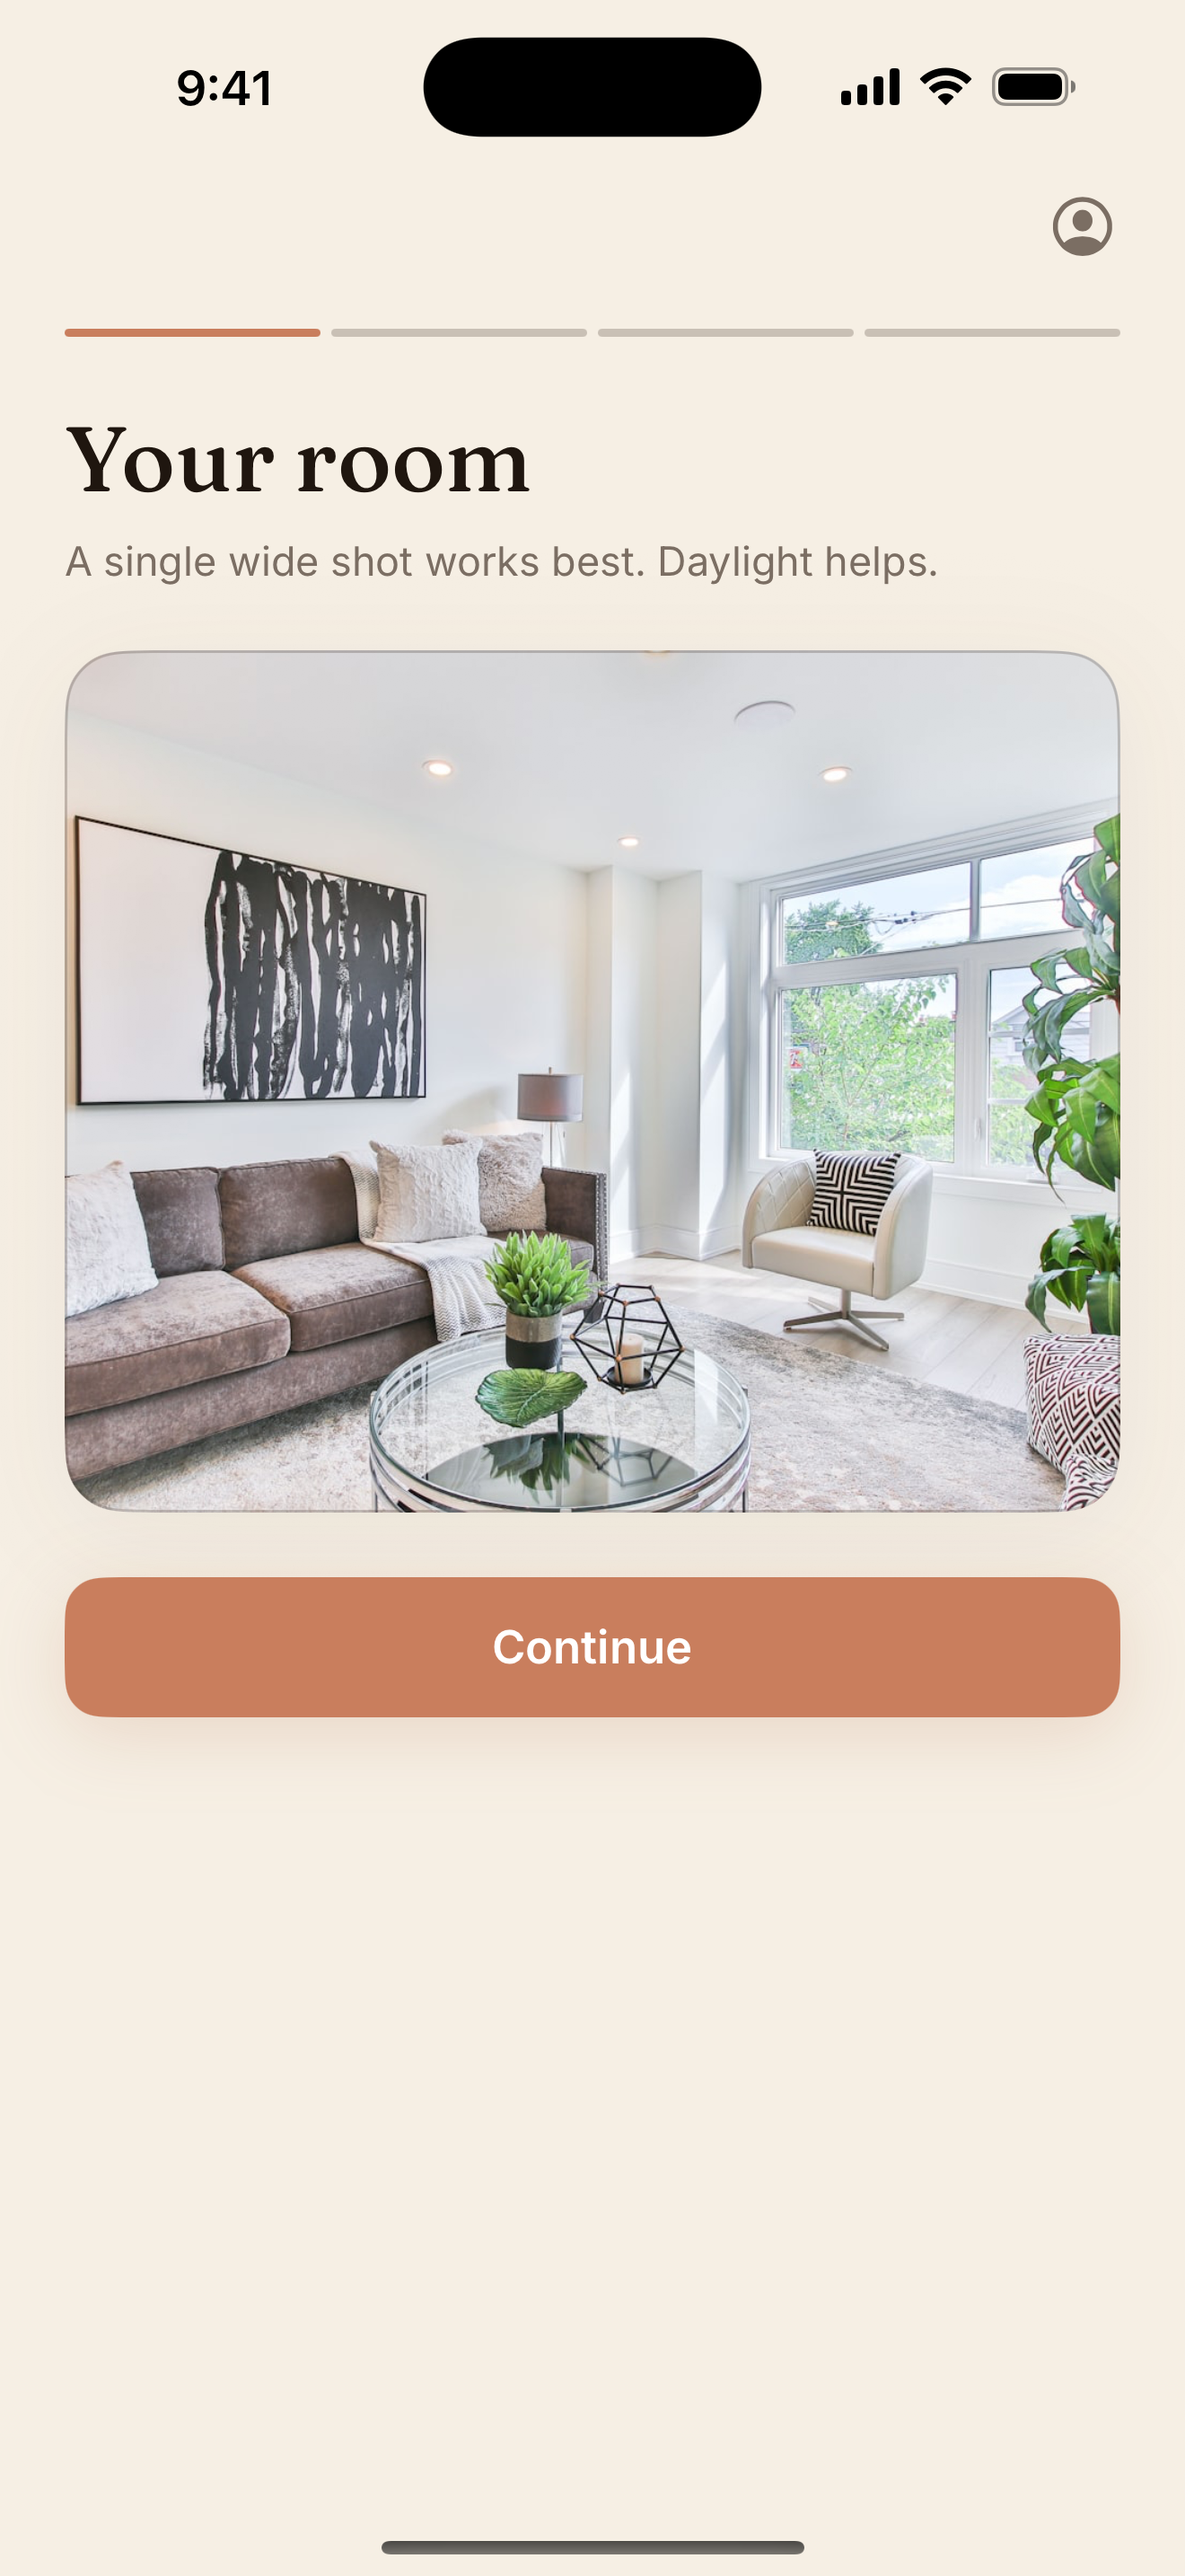
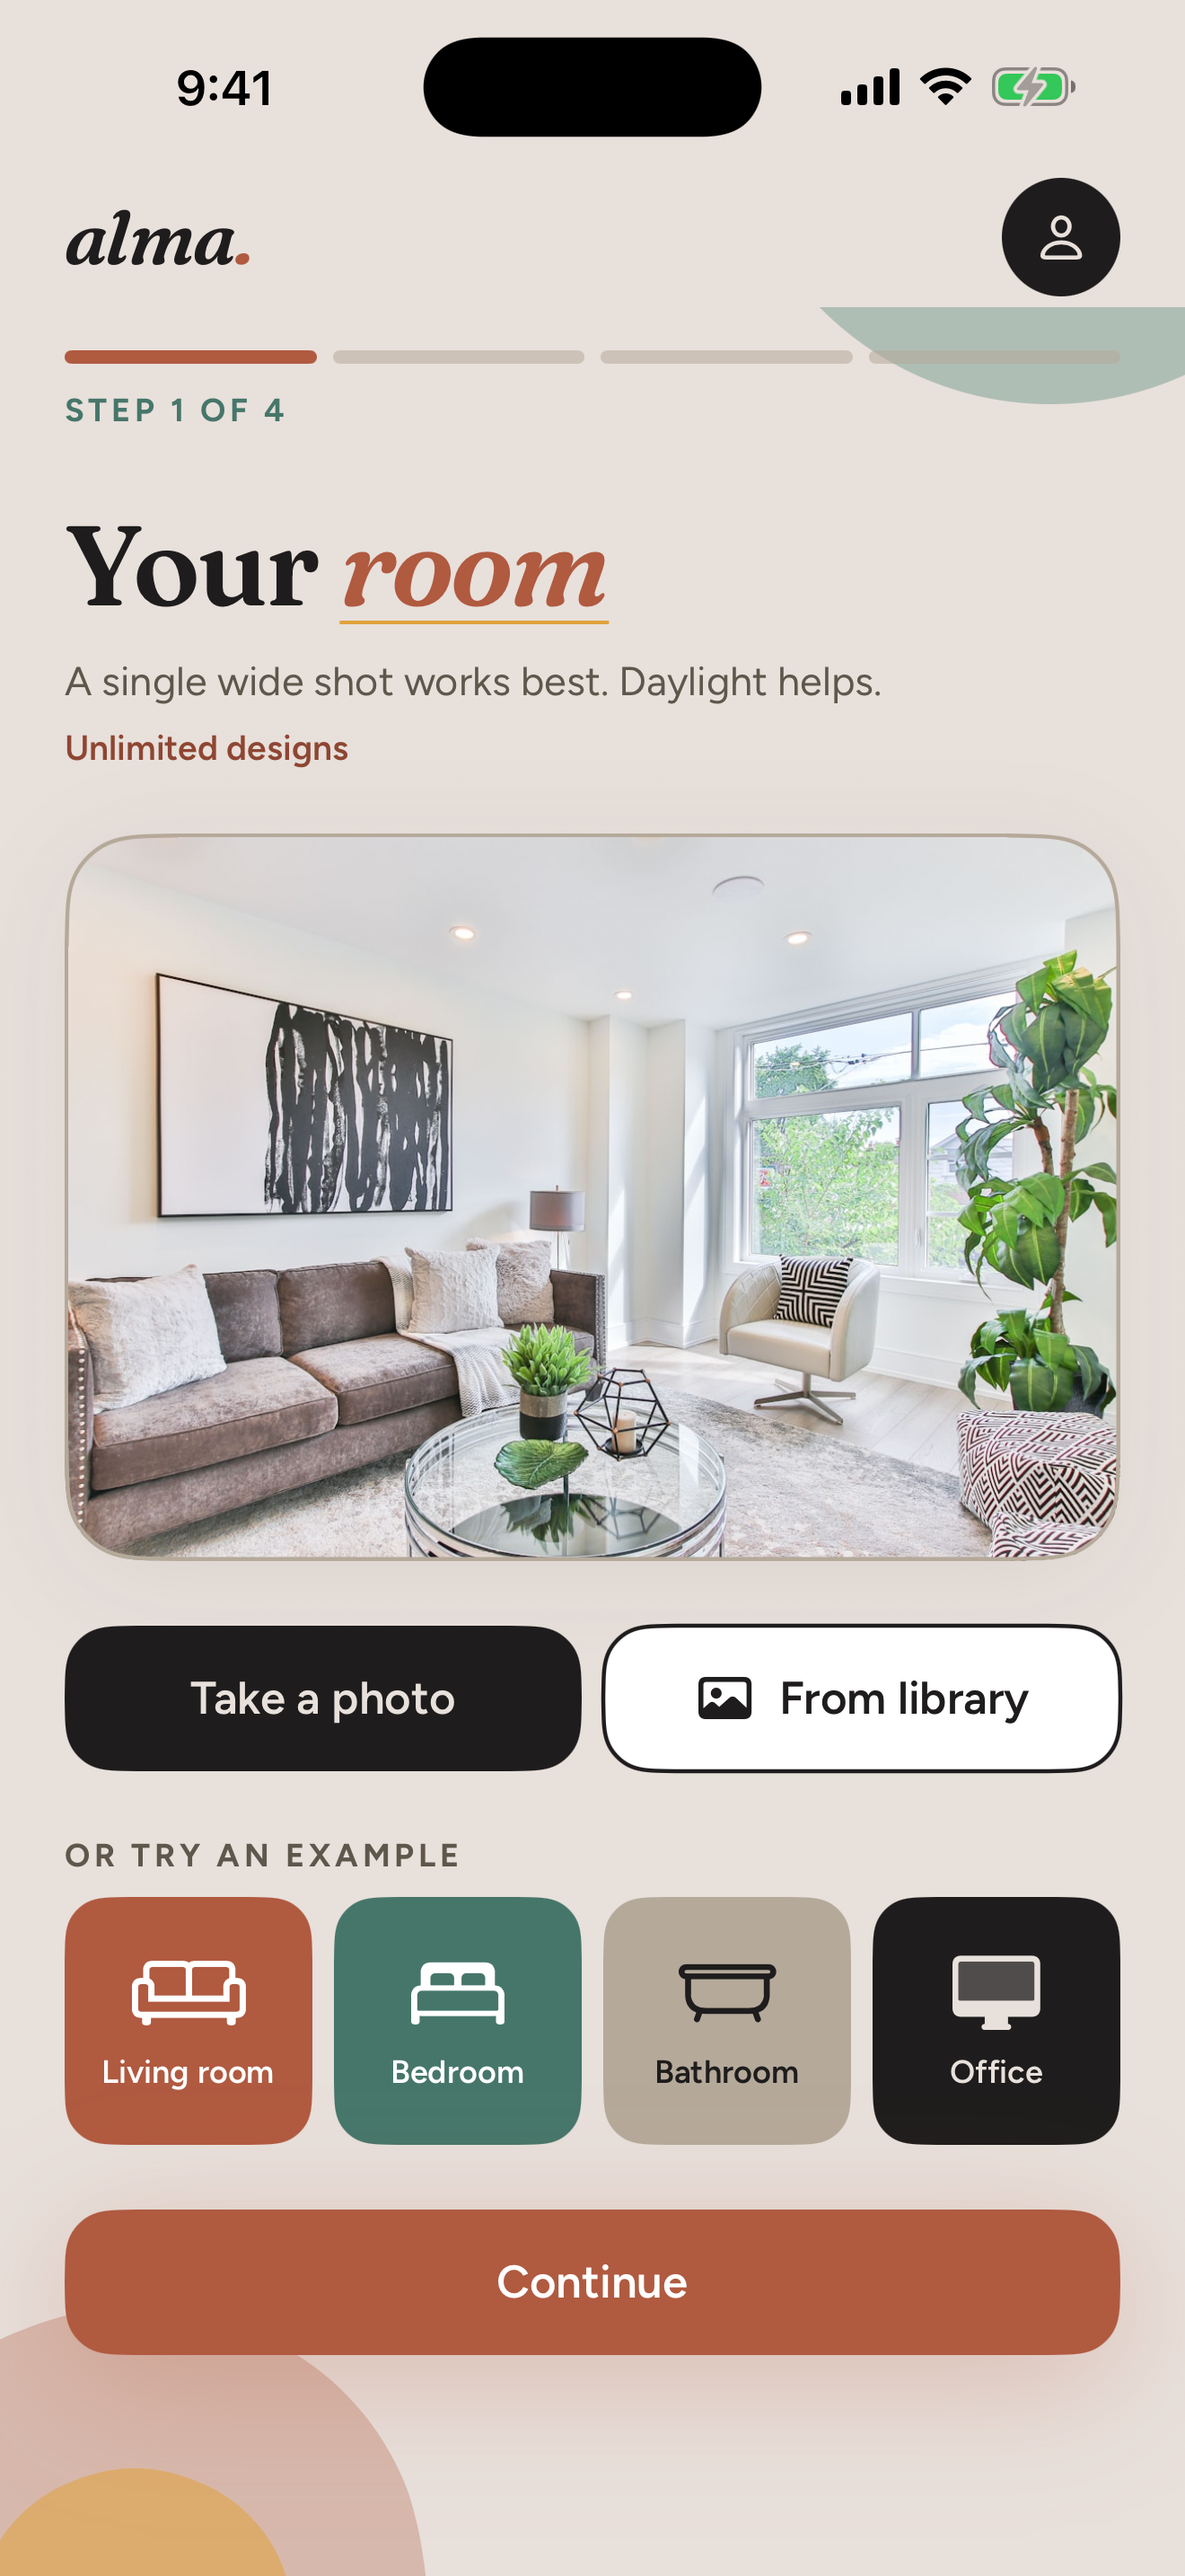
Screenshots of the new design in the README and store/ (en + he)
Six screens per language, taken 27.10.2026 from the simulator with the debug
ScreenshotDriver; the result screen is real backend output. The README now opens
with a gallery, and the how-to section matches the current driver arguments.

diff --git a/README.md b/README.md
@@ -8,6 +8,16 @@ stores. This repository is the native iOS app (SwiftUI, no third-party dependenc
 The app talks to the Alma backend (FastAPI) over HTTPS; the backend and the website live in a
 separate repository.
 
+## Screenshots
+
+| Sign in | Your room | Which room? | Mark & tell | Colours | Result |
+|---|---|---|---|---|---|
+| <img src="docs/media/en-01-sign-in.jpg" width="140"> | <img src="docs/media/en-02-your-room.jpg" width="140"> | <img src="docs/media/en-03-which-room.jpg" width="140"> | <img src="docs/media/en-04-mark-and-tell.jpg" width="140"> | <img src="docs/media/en-05-colours.jpg" width="140"> | <img src="docs/media/en-06-result.jpg" width="140"> |
+| <img src="docs/media/he-01-sign-in.jpg" width="140"> | <img src="docs/media/he-02-your-room.jpg" width="140"> | <img src="docs/media/he-03-which-room.jpg" width="140"> | <img src="docs/media/he-04-mark-and-tell.jpg" width="140"> | <img src="docs/media/he-05-colours.jpg" width="140"> | <img src="docs/media/he-06-result.jpg" width="140"> |
+
+The result screen is real output from the production backend. Full-size App Store
+screenshots (1320 x 2868) are in `store/screenshots/en/` and `store/screenshots/he/`.
+
 ## Documentation
 
 | Document | What it covers |
@@ -92,24 +102,19 @@ The app is iPhone-only (`TARGETED_DEVICE_FAMILY = 1`).
   `appstore-prep` branch only until that is deployed.
 - Listing text, privacy answers and screenshots: `store/`.
 
-## Screenshots
+## Taking the screenshots
 
 Debug builds accept launch arguments that drive the real wizard (compiled out of
-Release, see `ScreenshotDriver.swift`):
+Release, see `ScreenshotDriver.swift`). The simulator must be signed in first.
 
 ```
-xcrun simctl launch booted com.arielhalevy.alma.swift \
-  -AlmaDemoPhoto /path/to/room.jpg -AlmaDemoStep upload|style|review|result
+xcrun simctl launch booted com.arielhalevy.alma \
+  -AlmaDemoPhoto /path/to/room.jpg -AlmaDemoStep upload|room|mark|palette|result
 ```
 
 Add `-AppleLanguages "(he)" -AppleLocale he_IL` for Hebrew. `result` calls the
-production backend and takes about two minutes.
-
-Bundle identifier is `com.arielhalevy.alma.swift`, deliberately different from the
-Expo build's `com.arielhalevy.alma` so the two can be installed side by side. If this
-build ever becomes the shipping iOS app, change it to `com.arielhalevy.alma` and it
-takes over as an update to the existing App Store listing — ratings and reviews
-survive, because the store identifies an app by bundle id, not by language.
+production backend and takes about a minute. Build the simulator app with `xcodebuild`
+(not an unsigned copy), so the Keychain works and the sign-in survives a relaunch.
 
 ## Tests
 

diff --git a/store/LISTING.md b/store/LISTING.md
@@ -117,16 +117,17 @@ Alma הופכת תמונה של החדר שלכם לעיצוב חדש שאפשר
 
 ## Screenshots
 
-`store/screenshots/en/` and `store/screenshots/he/`, five each, 1320 x 2868 PNG
-(6.9-inch display, iPhone 16 Pro Max simulator, no alpha channel). Upload them to the
+`store/screenshots/en/` and `store/screenshots/he/`, six each, 1320 x 2868 PNG
+(6.9-inch display, iPhone 17 Pro Max simulator, no alpha channel). Upload them to the
 6.9" slot; App Store Connect scales them down for smaller iPhones. No iPad set is
-needed because the app is iPhone-only.
+needed because the app is iPhone-only. Taken 27.10.2026 from the Linen design.
 
-1. Sign in (Apple, Google, or "Continue without an account")
+1. Sign in (Apple or Google)
 2. Your room (photo chosen)
-3. The look (room + palette)
-4. Review
-5. Result with buyable products (real output from the production backend)
+3. Which room?
+4. Mark & tell
+5. Colours and stores
+6. Result with buyable products (real output from the production backend)
 
 The sample room photo is `frontend/public/examples/living-room.jpg` from the web repo.
 Confirm you have the right to use it commercially, or retake the set with a photo of
